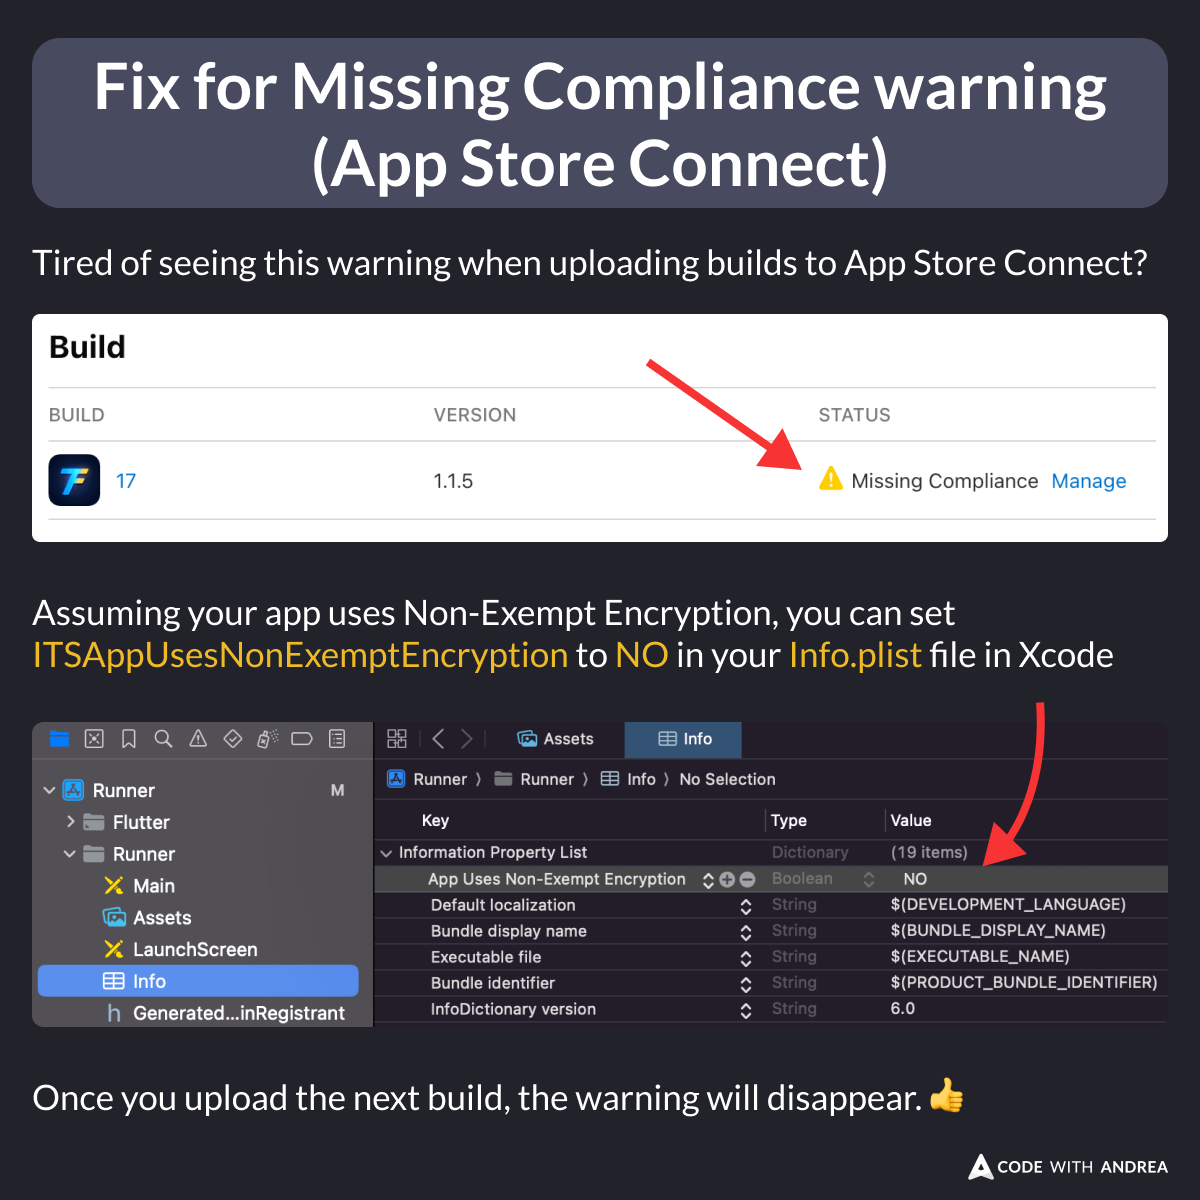
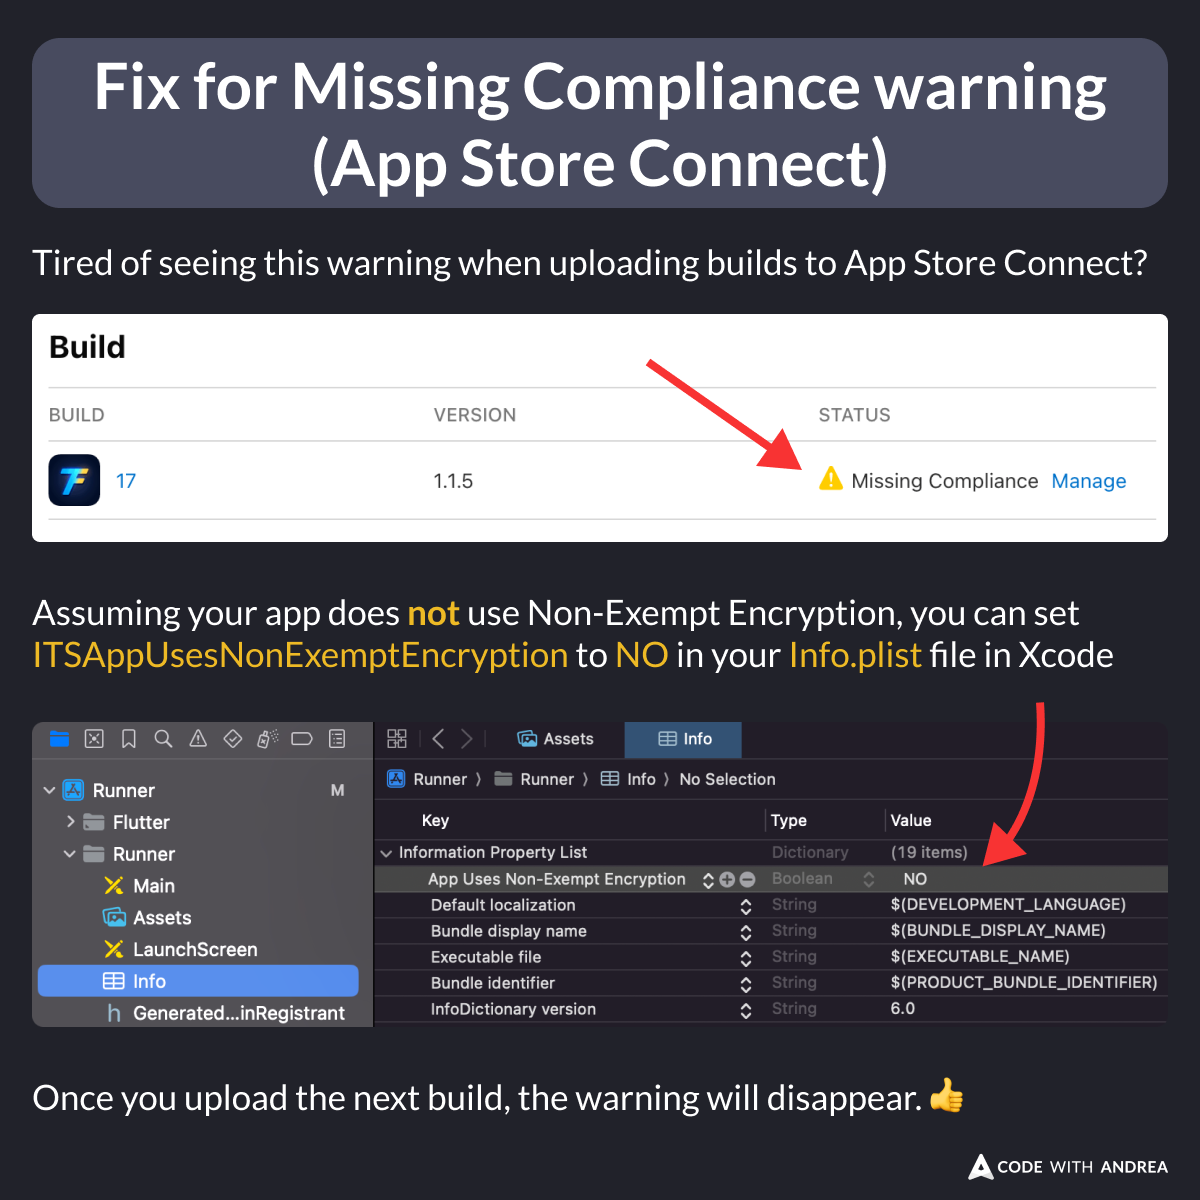
Update 211

Changed region(s): [[0.2775, 0.4933, 0.8942, 0.5242]]

diff --git a/tips/0211-fix-missing-compliance-warning/index.md b/tips/0211-fix-missing-compliance-warning/index.md
@@ -2,7 +2,7 @@
 
 Tired of seeing the "Missing Compliance" warning when uploading builds to App Store Connect?
 
-If your app uses Non-Exempt Encryption, set `ITSAppUsesNonExemptEncryption` to `NO` in your `Info.plist` file in Xcode.
+If your app does **not** use Non-Exempt Encryption, set `ITSAppUsesNonExemptEncryption` to `NO` in your `Info.plist` file in Xcode.
 
 Upload your next build, and the warning will disappear. 👍
 
@@ -17,6 +17,12 @@ Assuming your app uses Non-Exempt Encryption, you can set ITSAppUsesNonExemptEnc
 Once you upload the next build, the warning will disappear. 👍
 
 -->
+
+---
+
+For more details, read:
+
+- [Complying with Encryption Export Regulations](https://developer.apple.com/documentation/security/complying-with-encryption-export-regulations)
 
 ---
 
